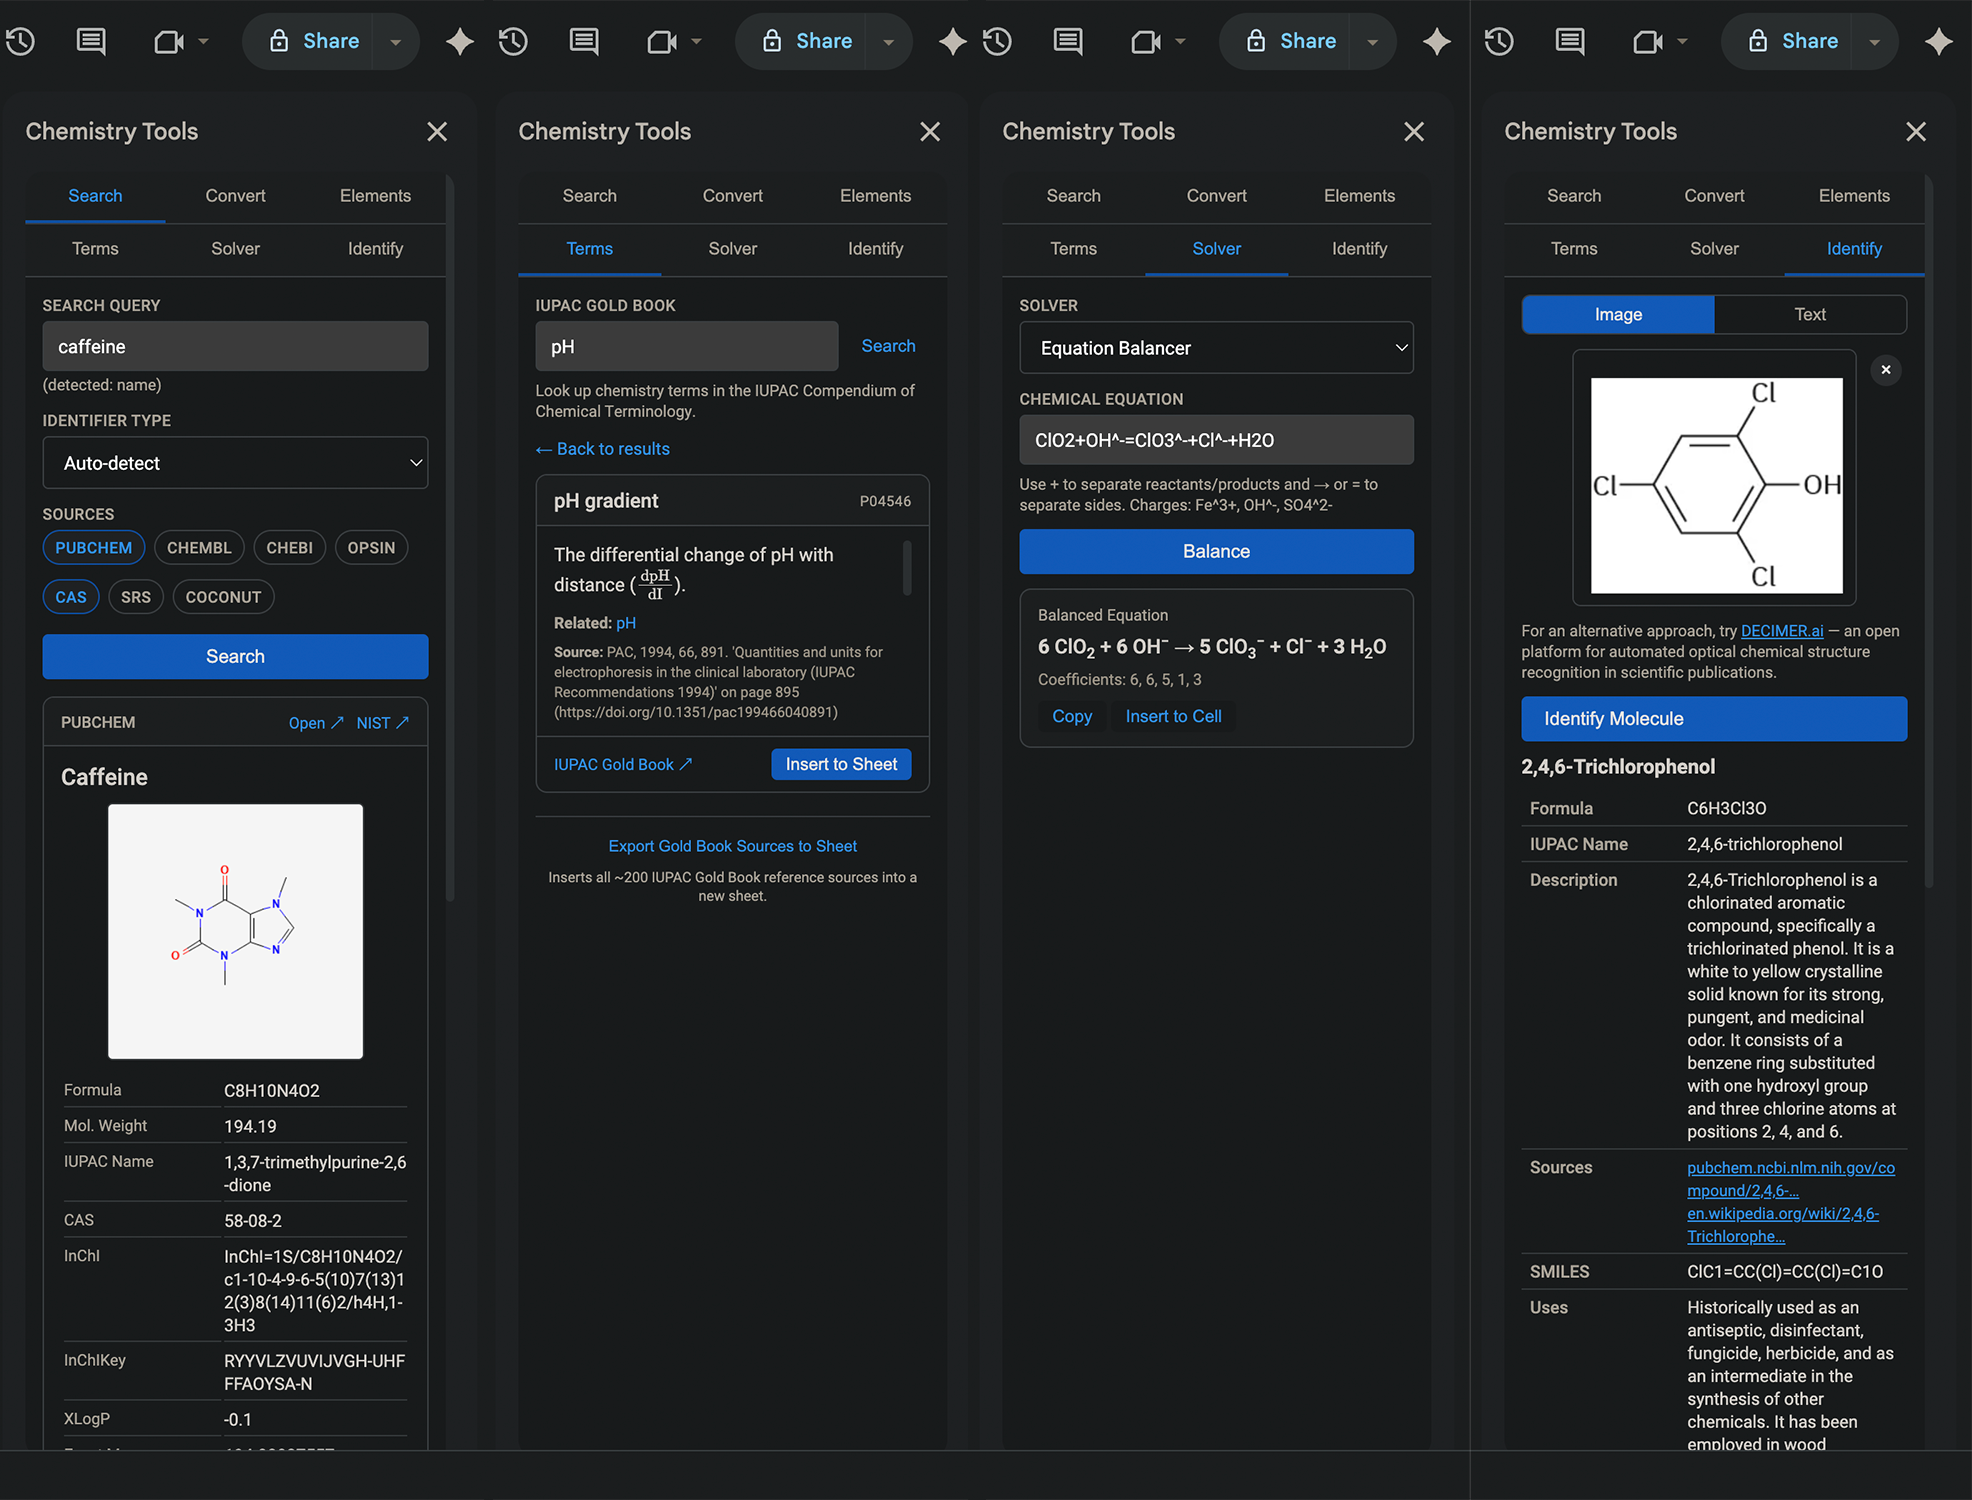
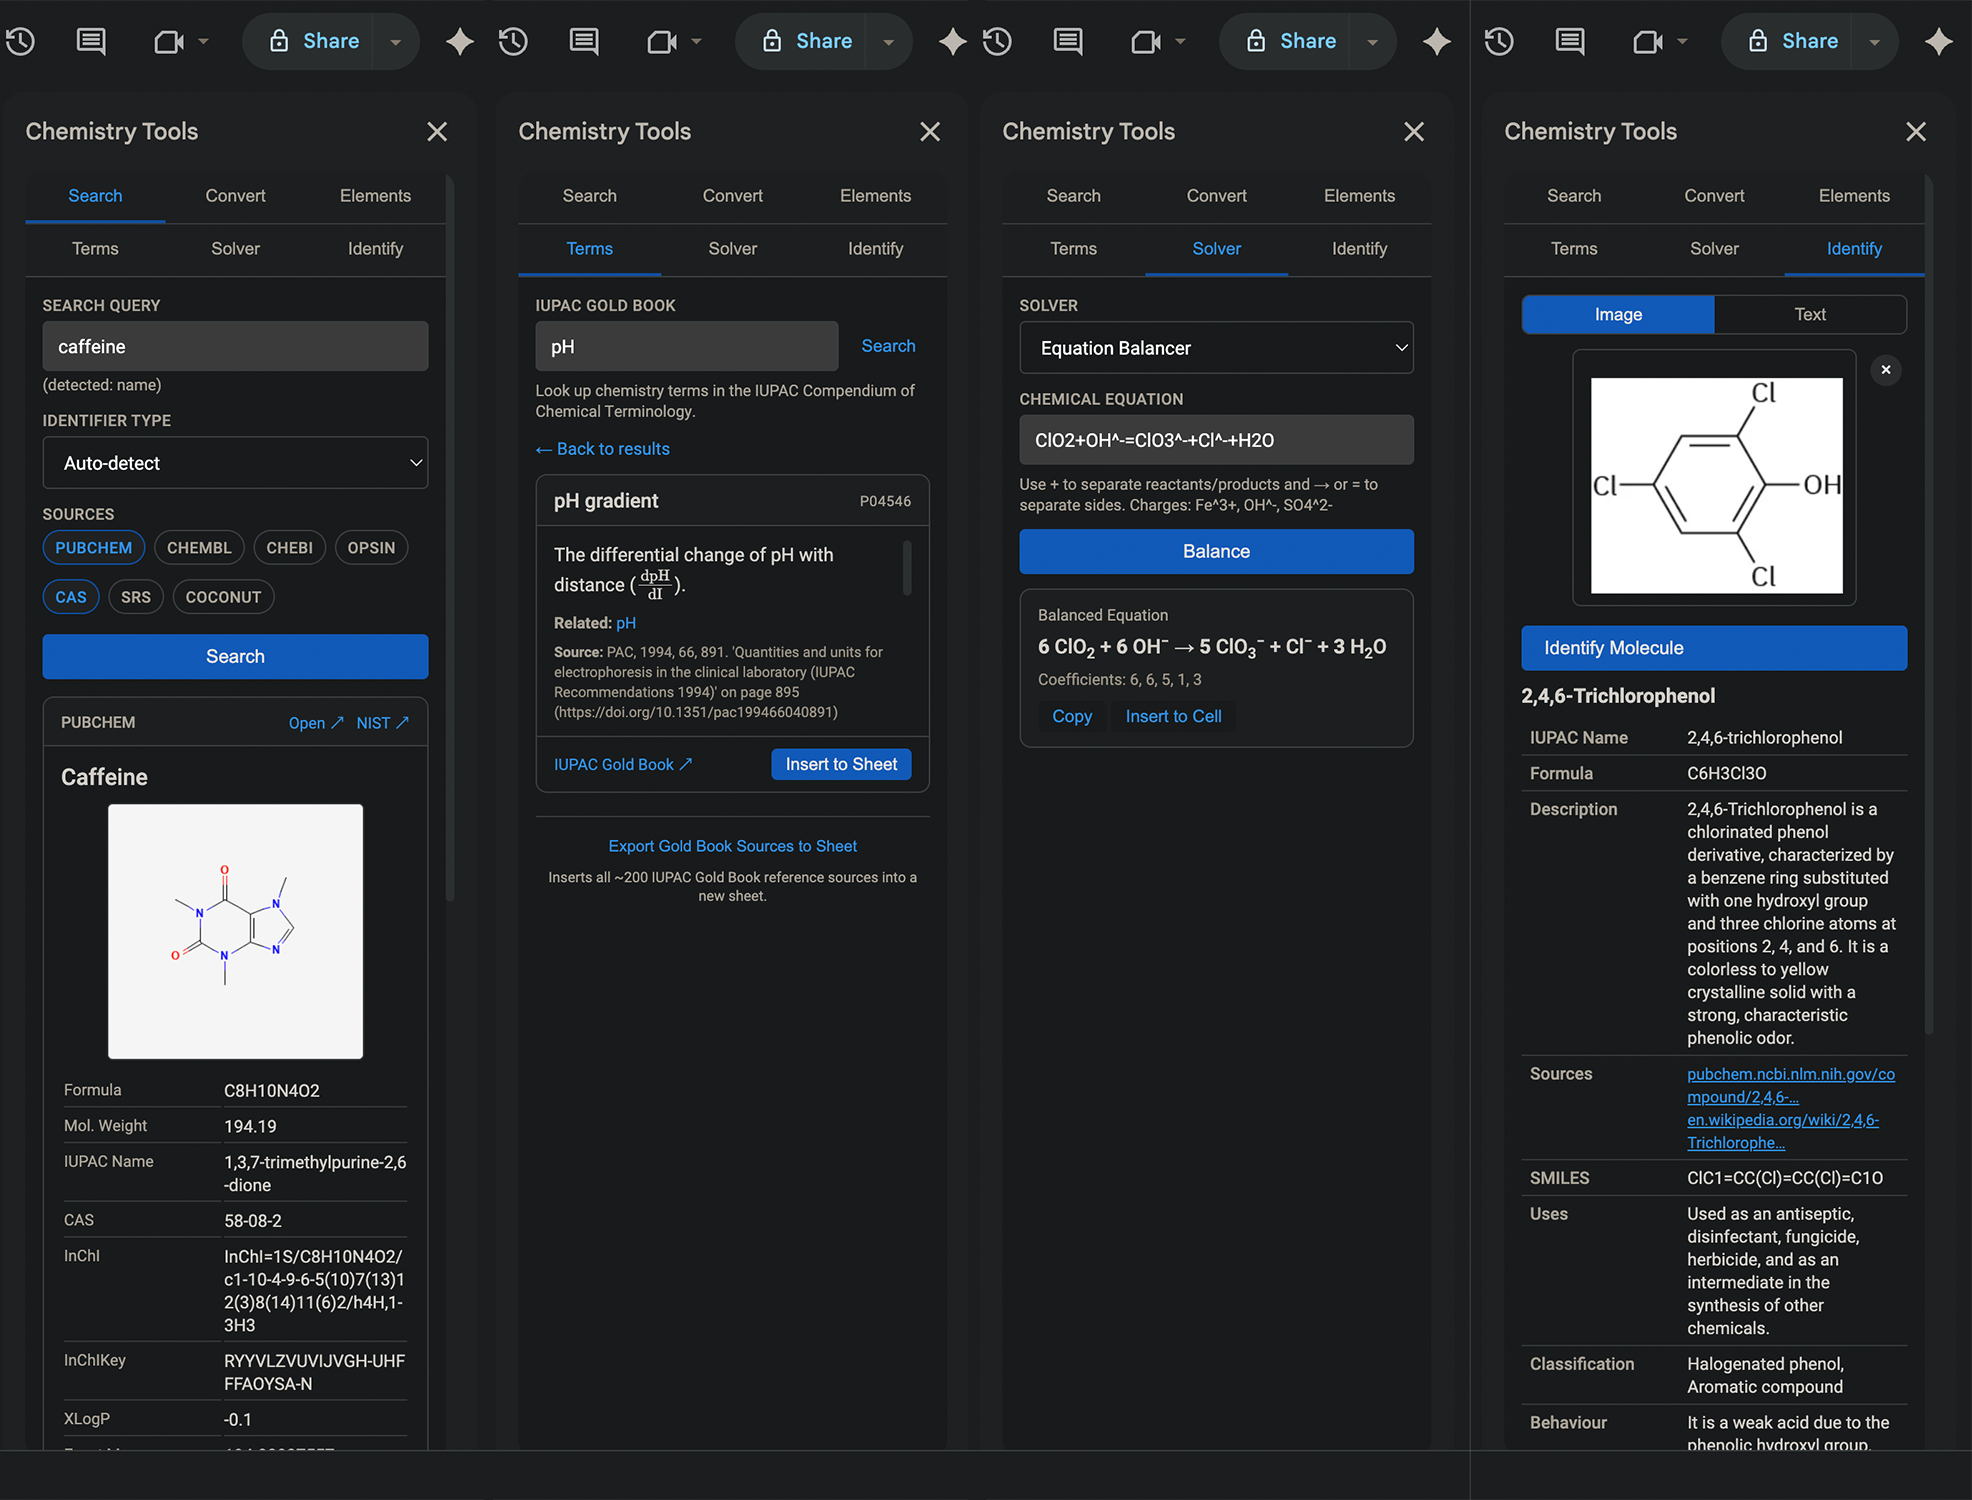
Small mods.

Changed region(s): [[0.7733, 0.3987, 0.9899, 0.9813], [0.7733, 0.7667, 0.8043, 0.7973], [0.7733, 0.7053, 0.8043, 0.736]]

diff --git a/src/html/IdentifyTab.html b/src/html/IdentifyTab.html
@@ -47,15 +47,15 @@
       </button>
     </div>
 
-    <!-- DECIMER.ai reference -->
-    <div style="font-size: 11px; color: #5f6368; margin-top: 6px">
+    <!-- DECIMER.ai reference -> unreliable -->
+    <!-- <div style="font-size: 11px; color: #5f6368; margin-top: 6px">
       For an alternative approach, try
       <a href="https://decimer.ai/" target="_blank" style="color: #1a73e8"
         >DECIMER.ai</a
       >
       — an open platform for automated optical chemical structure recognition in
       scientific publications.
-    </div>
+    </div> -->
   </div>
 
   <!-- ─── Text Mode ───────────────────────────────────────────────────────── -->

diff --git a/README.md b/README.md
@@ -98,8 +98,6 @@ AI-powered molecule identification using the **Google Gemini API** (Gemini 2.5 F
 
 Results can be injected into the sheet.
 
-A link to [DECIMER.ai](https://decimer.ai/) is provided for users who want to try an alternative approach to optical chemical structure recognition.
-
 _NOTE: Accuracy of the results can be improved by using a more powerful AI model._
 
 ### Chemistry Tables (Menu)
@@ -289,6 +287,5 @@ Note that this project is currently in development.
 - [OPSIN](https://opsin.ch.cam.ac.uk/) (University of Cambridge) — Open Parser for Systematic IUPAC Nomenclature
 - [IUPAC Gold Book](https://goldbook.iupac.org/) — Compendium of Chemical Terminology
 - [Google Gemini API](https://ai.google.dev/) — AI molecule identification
-- [DECIMER](https://decimer.ai/) — Open platform for automated optical chemical structure identification
 - [MathJax](https://www.mathjax.org/) — LaTeX rendering
 - [NIST CODATA](https://physics.nist.gov/cuu/Constants/) — Fundamental physical constants
